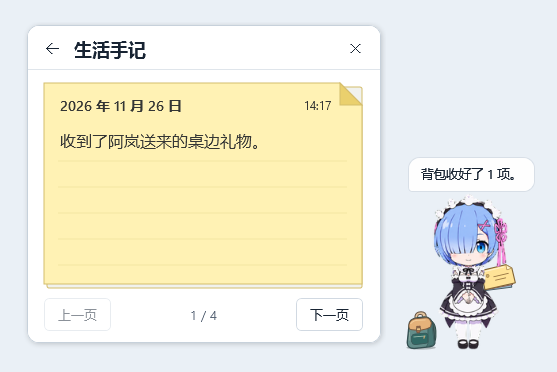
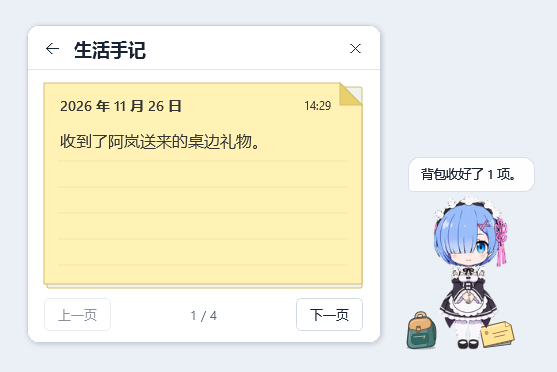
Place the journal tab beside the right foot and clear the chest row

Changed region(s): [[0.8546, 0.7097, 0.9461, 0.7984], [0.8546, 0.8575, 0.9461, 0.9462], [0.5494, 0.2661, 0.6104, 0.2957]]

diff --git a/src/PetAttachments.cs b/src/PetAttachments.cs
@@ -12,11 +12,10 @@ namespace DeskMate
     public sealed partial class PetWindow
     {
         Button backpackButton, journalButton;
-        double journalAnchor = .68;
         readonly ConditionalWeakTable<BitmapSource, PropEdges> frameEdges = new ConditionalWeakTable<BitmapSource, PropEdges>();
         byte[] scan;
 
-        sealed class PropEdges { public double Waist, PaperRight, BagLeft; }
+        sealed class PropEdges { public double PaperRight, BagLeft; }
 
         void InstallAttachments(Grid panel)
         {
@@ -75,27 +74,21 @@ namespace DeskMate
             if (frameEdges.TryGetValue(frame, out edges)) return edges;
             BitmapSource pixels = PetSprite.Readable(frame);
             int w = pixels.PixelWidth, h = pixels.PixelHeight, stride = 4*w;
-            int first = (int)(.51*h), waist = (int)(.54*h), lastPaper = (int)(.61*h);
-            int firstBag = (int)(.74*h), last = Math.Min(h-1, (int)(.95*h));
+            // Both props sit by the feet. Only read the lower band of each pose.
+            int first = (int)(.74*h), ankle = (int)(.83*h), last = Math.Min(h-1, (int)(.95*h));
             int bytes = (last-first+1)*stride;
             if (scan == null || scan.Length < bytes) scan = new byte[bytes];
             pixels.CopyPixels(new Int32Rect(0, first, w, last-first+1), scan, stride, 0);
-            int right = 0, resting = 0, left = w;
-            for (int y=first; y<=lastPaper; y++)
-                for (int x=w-1; x>=0; x--)
-                    if (scan[(y-first)*stride + 4*x+3] >= 32)
-                    {
-                        right = Math.Max(right, x+1);
-                        if (y==waist) resting = x+1;
-                        break;
-                    }
-            for (int y=firstBag; y<=last; y++)
+            int right = 0, left = w;
+            for (int y=first; y<=last; y++)
+            {
                 for (int x=0; x<left; x++)
                     if (scan[(y-first)*stride + 4*x+3] >= 32) { left=x; break; }
-            edges = new PropEdges {
-                Waist = resting==0 ? .68 : Math.Max(.53, (double)resting/w),
-                PaperRight = (double)right/w, BagLeft = (double)left/w
-            };
+                if (y<ankle) continue;
+                for (int x=w-1; x>=right; x--)
+                    if (scan[(y-first)*stride + 4*x+3] >= 32) { right=x+1; break; }
+            }
+            edges = new PropEdges { PaperRight = right==0 ? .58 : (double)right/w, BagLeft = (double)left/w };
             frameEdges.Add(frame, edges);
             return edges;
         }
@@ -119,14 +112,10 @@ namespace DeskMate
             if (backpackButton == null || scale <= 0 || frame == null) return;
             var current = EdgesOf(frame);
             double spriteLeft = (Width - sprite.Width)/2;
-            // Start at the resting waist. An unusually wide pose only nudges a prop
-            // outward as far as necessary to leave a usable part of its face exposed.
             double tabWidth = Math.Max(32, 39 * scale), tabHeight = tabWidth * 37 / 45;
             journalButton.Width = tabWidth;
             journalButton.Height = tabHeight;
-            double tabLeft = spriteLeft + Math.Max(sprite.Width * journalAnchor - tabWidth * .23,
-                sprite.Width * current.PaperRight - tabWidth * .33);
-            journalButton.Margin = new Thickness(Math.Min(tabLeft, Width - tabWidth - 2), 0, 0, sprite.Height * .46 - tabHeight * .5);
+            double tabLeft = spriteLeft + sprite.Width * current.PaperRight - tabWidth * .27;
 
             double bagWidth = Math.Max(29, 38 * scale);
             backpackButton.Width = bagWidth;
@@ -134,8 +123,14 @@ namespace DeskMate
             double bagLeft = Math.Min(Width / 2 - sprite.Width * .205 - bagWidth,
                 spriteLeft + sprite.Width * current.BagLeft - bagWidth * .82);
             if (gameStage != null && gameStage.IsVisible)
-                bagLeft = Math.Min(bagLeft, (Width - 129) / 2 - bagWidth - 3);
-            backpackButton.Margin = new Thickness(Math.Max(2, bagLeft), 0, 0, Math.Max(2, 3 * scale));
+            {
+                const double chestRowWidth = 3 * (39 + 2 * 2);
+                bagLeft = Math.Min(bagLeft, (Width - chestRowWidth) / 2 - bagWidth - 3);
+                tabLeft = Math.Max(tabLeft, (Width + chestRowWidth) / 2 + 3);
+            }
+            double ground = Math.Max(2, 3 * scale);
+            journalButton.Margin = new Thickness(Math.Min(tabLeft, Width - tabWidth - 2), 0, 0, ground);
+            backpackButton.Margin = new Thickness(Math.Max(2, bagLeft), 0, 0, ground);
         }
 
         // The ordinary Image hit region includes transparent atlas padding. Only sample a

diff --git a/tests/Integration.cs b/tests/Integration.cs
@@ -313,6 +313,13 @@ internal static partial class Integration
         app.Desk.AcceptPetDrop(new DataObject(DataFormats.FileDrop,new[]{sample}));
         Pump(100);
         Check(!app.Desk.IsVisible && PetAccessory("打开随身背包")!=null,"File drop reveals backpack without opening the card");
+        var paper=PetAccessory("翻开生活手记");
+        var bag=PetAccessory("打开随身背包");
+        var sprite=app.Pet.LiveSprite;
+        var paperCenter=paper.TranslatePoint(new Point(paper.ActualWidth/2,paper.ActualHeight/2),sprite);
+        var bagCenter=bag.TranslatePoint(new Point(bag.ActualWidth/2,bag.ActualHeight/2),sprite);
+        Check(paperCenter.X>sprite.ActualWidth*.5 && paperCenter.Y>sprite.ActualHeight*.73 &&
+            bagCenter.X<sprite.ActualWidth*.5 && bagCenter.Y>sprite.ActualHeight*.73,"Paper tab is at the pet's lower right and backpack is at its lower left");
         Capture(app.Pet,"03-pet-accessories");
         Nav("bag");
         Check(HasText("书单.txt"),"Backpack opens directly to the dropped file");

diff --git a/src/PetWindow.cs b/src/PetWindow.cs
@@ -243,7 +243,6 @@ namespace DeskMate
                 if (character != null && character != "rem" && character != "kurisu") art.Remove(character);
                 character = wanted;
                 frames = LoadArt(wanted);
-                journalAnchor = EdgesOf(frames[Idle][0]).Waist;
                 currentFrame = currentRow = -1;
                 row = Idle;
                 effectUntil = 0;

diff --git a/README.md b/README.md
@@ -15,7 +15,7 @@
 - **日常活动**按角色和时间自动触发。打开后等一会儿，就能看到第一段动作。小盒子出现时可以猜一猜，继续忙自己的事也会自行揭晓。
 - **番茄钟、便签与提醒**在右键菜单。把一段文字拖到小人身上可以记便签，把“10分钟后提醒我拿外卖”拖过去可以设提醒。
 - **随身背包**会在你第一次把文件拖给小人时出现在身旁。点击背包可以打开收藏的文件、文件夹和网址。移出最后一项，背包就收起来。文件保存在原来的位置。
-- **生活手记**藏在小人身后的纸签里。点击纸签可以逐页读伙伴的日常，每次翻页都会随机换成另一种纸色，颜色有黄、蓝、红三种。
+- **生活手记**藏在小人右脚旁露出的纸签里。点击纸签可以逐页读伙伴的日常，每次翻页都会随机换成另一种纸色，颜色有黄、蓝、红三种。
 - **跟唱字幕**会随播放进度更新。右击 → **听音乐**可体验 18 秒内置演示，也可以导入 LRC。桌宠优先识别网易云音乐、QQ 音乐和酷狗音乐。媒体会话的播放、暂停与跳转已在 Windows 上验证，三个客户端的识别路径使用模拟窗口测试，具体版本的可读信息会有差异。在线歌词匹配可自行开启。
 
 ![背包、桌边纸签和打开的生活手记](docs/desktop-tools.png)
